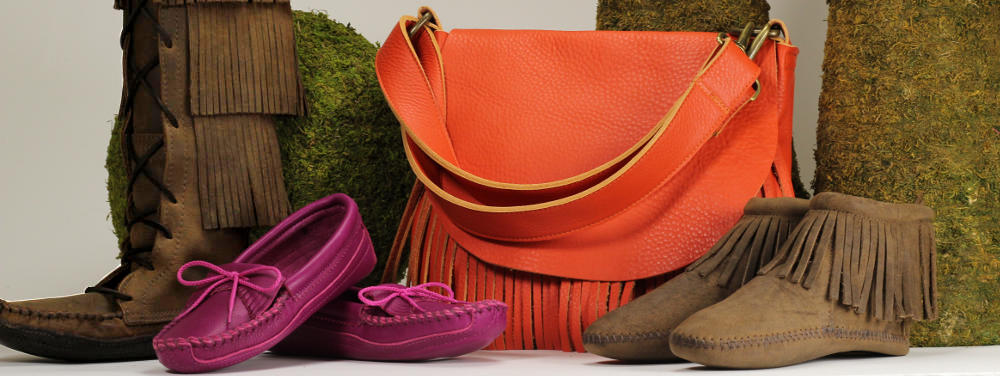
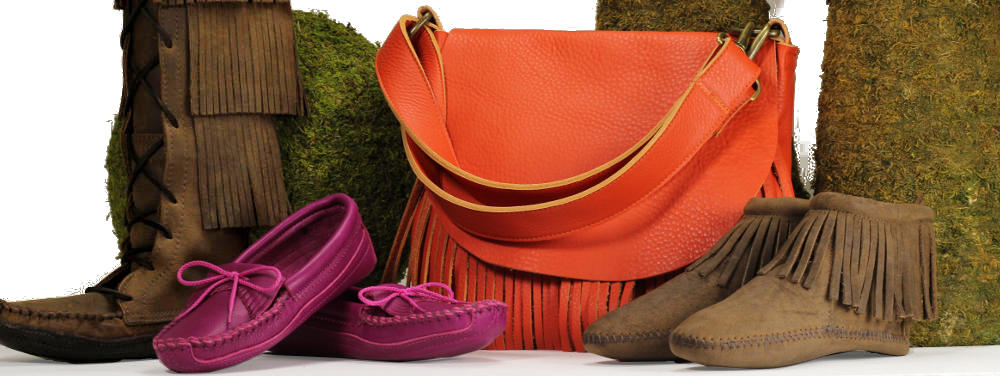
Updates to home page images

diff --git a/index.html b/index.html
@@ -24,7 +24,7 @@ var _gaq = _gaq || [];
 var myCreole;
 
 var app = {vars:{
-	"release":"20150113055500",  //increment this with each change. should solve caching issues. format: frameworkID,letterVersion i.e. 201320aa   increment one letter every version update. Update framework ID on new framework updates.
+	"release":"20150113101900",  //increment this with each change. should solve caching issues. format: frameworkID,letterVersion i.e. 201320aa   increment one letter every version update. Update framework ID on new framework updates.
 	"_clientid":"zmvc",
 	"baseURL":"", //used in non-local mode.
         "checkoutAuthMode" : "active",//can be passive, active or required
@@ -455,27 +455,27 @@ the homepageTemplate template is loaded into mainContentArea by default when the
 
 		<ul id="wideSlideshow" class="pics slideshow">
 
-			<li><a href='#' onClick="return showContent('category',{'navcat':'.leathergoods.small-leather-goods'});"><img src="img/B_WalletBalls2014Q4.jpg" width="1000" height="376" alt="Wallets by Itasca Leathergoods" title="Wallets by Itasca Leathergoods" /></a></li>
+			<li><a href='#' onClick="return showContent('search',{'elasticsearch':{'query':{'query_string':{'query':'B_OrangeBeaucoup2014Q2 Beaucoup'}}}});"><img src="img/B_OrangeBeaucoup2014Q2.jpg" width="1000" height="376" alt="Women's Nokasippi, Fuchsia 2 Cota, Beaucoup Handbag, Trimbelle in Gauntlet by Itasca Leathergoods" title="Women's Nokasippi, Fuchsia 2 Cota, Beaucoup Handbag, Trimbelle in Gauntlet by Itasca Leathergoods" /></a></li>
 
-			<li><a href='#' onClick="return showContent('search',{'elasticsearch':{'query':{'query_string':{'query':'Slipper'}}}});"><img src="img/B_SlipperBalls2014Q4.jpg" width="1000" height="376" alt="Slippers by Itasca Leathergoods" title="Slippers by Itasca Leathergoods" /></a></li>
+			<li><a href='#' onClick="return showContent('search',{'elasticsearch':{'query':{'query_string':{'query':'SpringSummer2014'}}}});"><img src="img/B_Cota2014Q2.jpg" width="1000" height="376" alt="Women's Spring/Summer 2014 Cota moccasins by Itasca Leathergoods" title="Women's Spring/Summer 2014 Cota moccasins by Itasca Leathergoods" /></a></li>
 
-			<li><a href='#' onClick="return showContent('category',{'navcat':'.leathergoods.accessories.bracelets_-_unisex'});"><img src="img/B_Bracelets2014Q4.jpg" width="1000" height="376" alt="Unisex Bracelets by Itasca Leathergoods" title="Unisex Bracelets by Itasca Leathergoods" /></a></li>
+			<li><a href='#' onClick="return showContent('category',{'navcat':'.leathergoods.accessories'});"><img src="img/B_Belts2014Q2.jpg" width="1000" height="376" alt="Men's and Women's Belts by Itasca Leathergoods" title="Men's and Women's Belts by Itasca Leathergoods" /></a></li>
 
-			<li><a href='#' onClick="return showContent('category',{'navcat':'.leathergoods.accessories'});"><img src="img/B_BeltBalls2014Q4.jpg" width="1000" height="376" alt="Men's and Women's Belts by Itasca Leathergoods" title="Men's and Women's Belts by Itasca Leathergoods" /></a></li>
+			<li><a href='#' onClick="return showContent('search',{'elasticsearch':{'query':{'query_string':{'query':'MensBoots2014'}}}});"><img src="img/B_Mens2014Q2.jpg" width="1000" height="376" alt="Men's Boots by Itasca Leathergoods" title="Men's Boots by Itasca Leathergoods" /></a></li>
 
-			<li><a href="#" onClick="return showContent('search',{'elasticsearch':{'query':{'query_string':{'query':'Galena'}}}});"><img src="img/B_Galena2014Q4.jpg" width="1000" height="376" alt="Women's Galena Handbags by Itasca Leathergoods" title="Women's Galena Handbags by Itasca Leathergoods" /></a></li>
+			<li><a href="#" onClick="return showContent('search',{'elasticsearch':{'query':{'query_string':{'query':'Galena'}}}});"><img src="img/B_Galena2014Q2.jpg" width="1000" height="376" alt="Women's Galena Handbags by Itasca Leathergoods" title="Women's Galena Handbags by Itasca Leathergoods" /></a></li>
 
-			<li><a href='#' onClick="return showContent('search',{'elasticsearch':{'query':{'query_string':{'query':'MensBoots2014'}}}});"><img src="img/B_Mens2014Q4.jpg" width="1000" height="376" alt="Men's Boots by Itasca Leathergoods" title="Men's Boots by Itasca Leathergoods" /></a></li>
+			<li><a href='#' onClick="return showContent('category',{'navcat':'.leathergoods.small-leather-goods'});"><img src="img/B_Wallets2014Q2.jpg" width="1000" height="376" alt="Men's and Women's Wallets by Itasca Leathergoods" title="Men's and Women's Wallets by Itasca Leathergoods" /></a></li>
 
 		</ul>
 	</div>
 
 	<div class="homeBanners">
-		<a href='#' onClick="return showContent('search',{'elasticsearch':{'query':{'query_string':{'query':'Holiday2014'}}}});"><img src="img/F_HolidayBalls2014Q4.jpg" width="327" height="244" alt="Holiday moccasins for women by Itasca Leathergoods" title="Holiday moccasins for women by Itasca Leathergoods" /></a>
+		<a href='#' onClick="return showContent('search',{'elasticsearch':{'query':{'query_string':{'query':'Schoolcraft'}}}});"><img src="img/F_Schoolcraft2014Q2.jpg" width="327" height="244" alt="Men's and Women's Schoolcraft pull-on boot by Itasca Leathergoods" title="Men's and Women's Schoolcraft pull-on boot by Itasca Leathergoods" /></a>
 
 		<a href='#' i.	onClick="return showContent('company',{'show':'about'});"><img src="img/F_Video.jpg" width="327" height="244" alt="Click here to watch a video about Itasca Leathergoods." title="Click here to watch a video about Itasca Leathergoods." /></a>
 
-		<a href='#' onClick="return showContent('search',{'elasticsearch':{'query':{'query_string':{'query':'Holiday2014'}}}});"><img src="img/F_WapsiBalls2014Q4.jpg" width="327" height="244" alt="Infant slippers by Itasca Leathergoods" class="lastBann"/></a>
+		<a href='#' onClick="return showContent('category',{'navcat':'.leathergoods.moccasins.women.hatchie'});"><img src="img/F_Hatchie2014Q2.jpg" width="327" height="244" alt="Men's and Women's Yazoo slipper by Itasca Leathergoods" class="lastBann"/></a>
 	</div>
 </div>
 
